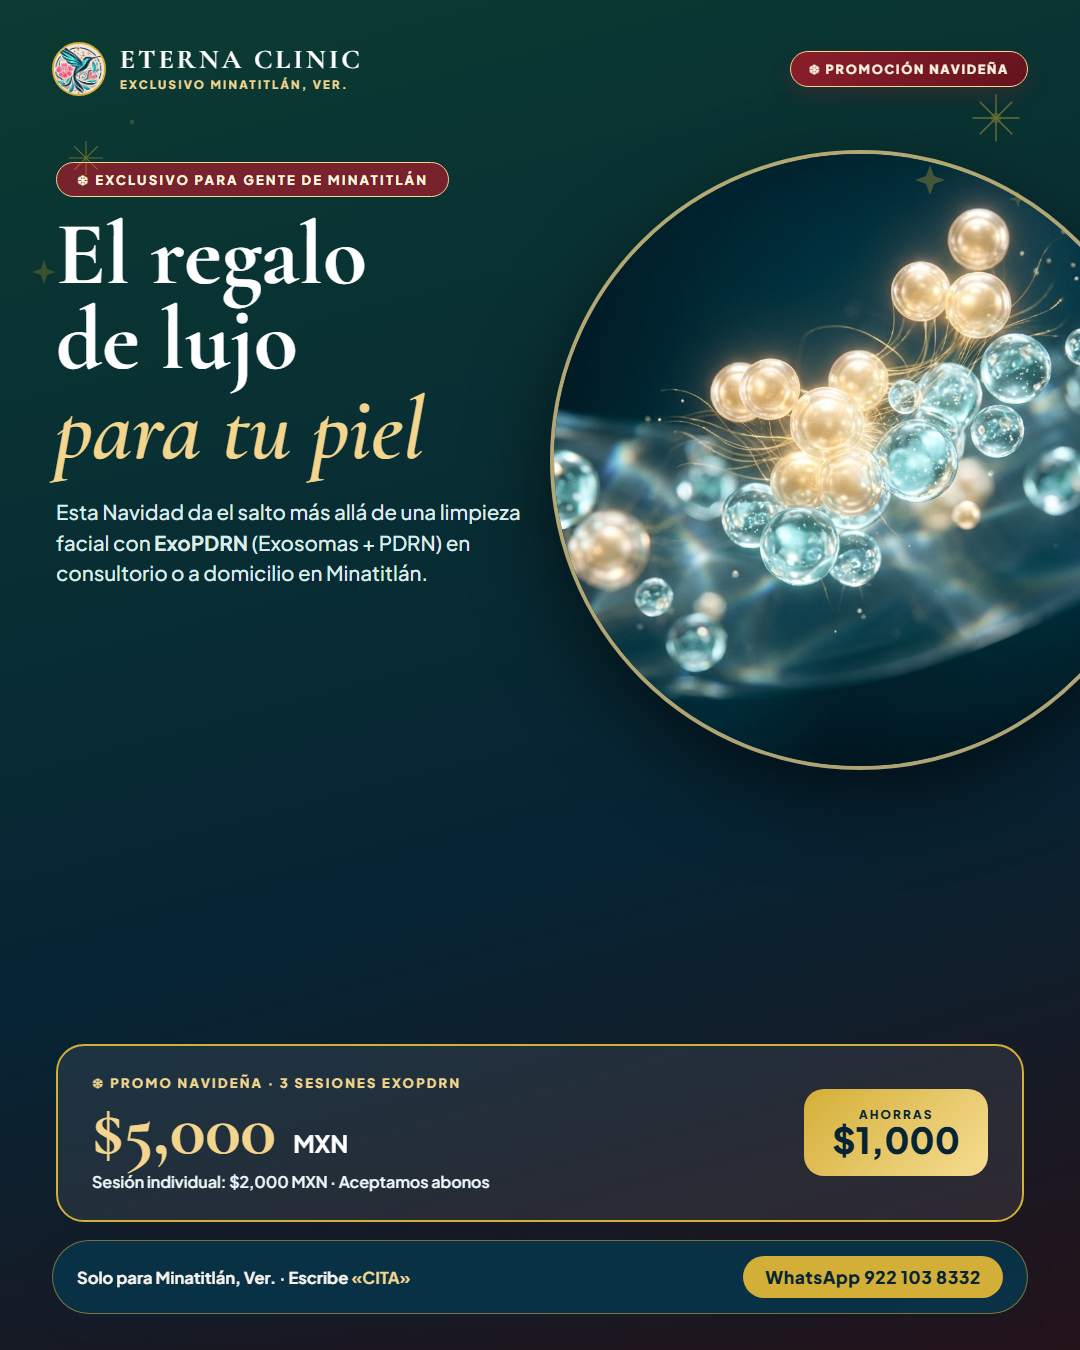
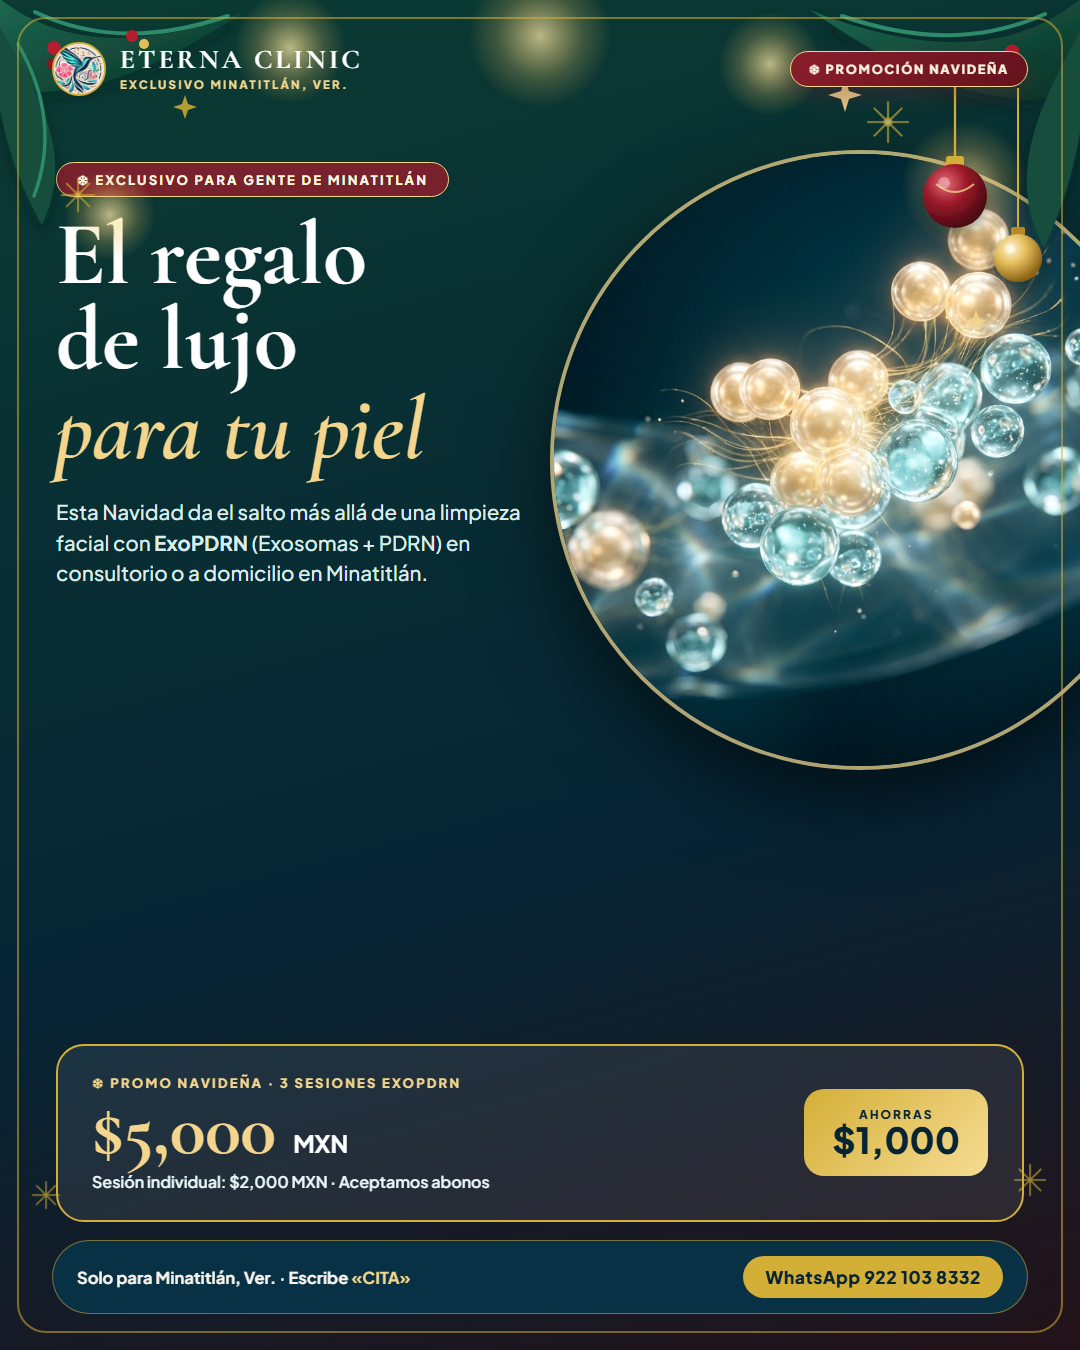
Sistema interactivo de favoritos/comentarios/descarga + diseno navideno de lujo real (guirnaldas, esferas, bokeh)

diff --git a/index.html b/index.html
@@ -547,11 +547,137 @@
     background: var(--navy-deep);
     color: rgba(255,255,255,0.78);
     text-align: center;
-    padding: 40px 20px;
+    padding: 40px 20px 110px;
     margin-top: 40px;
     font-size: 13.5px;
   }
   footer strong { color: var(--gold-light); }
+
+  /* SISTEMA DE APROBACION Y COMENTARIOS */
+  .review-controls {
+    display: flex;
+    gap: 8px;
+    margin-top: 4px;
+  }
+  .btn-fav {
+    flex: 1;
+    display: inline-flex;
+    align-items: center;
+    justify-content: center;
+    gap: 6px;
+    padding: 9px 12px;
+    border-radius: 12px;
+    font-size: 12.5px;
+    font-weight: 800;
+    cursor: pointer;
+    font-family: inherit;
+    background: #FFF9F0;
+    color: #8B1E2B;
+    border: 1.5px solid #E8D2A2;
+    transition: .2s;
+  }
+  .btn-fav.selected {
+    background: #8B1E2B;
+    color: #FDF4DF;
+    border-color: #8B1E2B;
+  }
+  .ad-card.is-fav {
+    border-color: #8B1E2B;
+    box-shadow: 0 12px 30px rgba(139,30,43,0.14);
+  }
+  .comment-box {
+    margin-top: 6px;
+  }
+  .comment-input {
+    width: 100%;
+    min-height: 54px;
+    resize: vertical;
+    border: 1.5px solid var(--border);
+    border-radius: 12px;
+    padding: 9px 12px;
+    font-family: inherit;
+    font-size: 12.8px;
+    color: var(--ink);
+    background: #FCFBF9;
+    transition: .2s;
+  }
+  .comment-input:focus {
+    outline: none;
+    border-color: var(--gold);
+    background: #FFFFFF;
+  }
+  .comment-saved {
+    font-size: 11px;
+    color: var(--ok);
+    font-weight: 700;
+    margin-top: 3px;
+    min-height: 15px;
+  }
+  .review-dock {
+    position: fixed;
+    left: 16px;
+    right: 16px;
+    bottom: 16px;
+    z-index: 150;
+    max-width: 1020px;
+    margin: 0 auto;
+    background: rgba(5, 34, 49, 0.96);
+    backdrop-filter: blur(14px);
+    border: 1.5px solid rgba(243, 213, 141, 0.65);
+    border-radius: 20px;
+    padding: 13px 20px;
+    color: #FFFFFF;
+    display: flex;
+    align-items: center;
+    justify-content: space-between;
+    gap: 14px;
+    flex-wrap: wrap;
+    box-shadow: 0 18px 46px rgba(4, 20, 30, 0.45);
+  }
+  .dock-info {
+    display: flex;
+    align-items: center;
+    gap: 12px;
+    font-size: 13.5px;
+    font-weight: 600;
+  }
+  .dock-badge {
+    background: #8B1E2B;
+    color: #FDF4DF;
+    border: 1px solid #F3D58D;
+    padding: 4px 12px;
+    border-radius: 999px;
+    font-size: 12px;
+    font-weight: 800;
+  }
+  .dock-actions {
+    display: flex;
+    gap: 8px;
+    flex-wrap: wrap;
+  }
+  .dock-btn {
+    border: none;
+    border-radius: 12px;
+    padding: 10px 16px;
+    font-family: inherit;
+    font-size: 13px;
+    font-weight: 800;
+    cursor: pointer;
+    transition: .2s;
+  }
+  .dock-wa {
+    background: linear-gradient(135deg, #25D366, #1DA851);
+    color: #FFFFFF;
+  }
+  .dock-copy {
+    background: rgba(255,255,255,0.12);
+    color: #FFFFFF;
+    border: 1px solid rgba(255,255,255,0.22);
+  }
+  .dock-txt {
+    background: #F3D58D;
+    color: #052231;
+  }
 
   @media (max-width: 960px) {
     .hero-in, .callout, .grid-2, .grid-3, .grid-4 { grid-template-columns: 1fr; }
@@ -838,6 +964,18 @@
   <p><strong>ETERNA CLINIC</strong> · Medicina Estética y Regenerativa No Invasiva · Col. Díaz Ordaz, Minatitlán, Veracruz</p>
   <p style="margin-top:6px;">WhatsApp de citas: <strong>+52 1 922 103 8332</strong> · Propuesta estratégica y producción creativa lista para campaña.</p>
 </footer>
+
+<div class="review-dock" id="review-dock">
+  <div class="dock-info">
+    <span class="dock-badge" id="dock-count">♥ 0 favoritos · 💬 0 comentarios</span>
+    <span>Marca tus favoritos o escribe ajustes en cada imagen/video y envíalos en 1 clic.</span>
+  </div>
+  <div class="dock-actions">
+    <button class="dock-btn dock-copy" onclick="copyReview(this)">📋 Copiar resumen</button>
+    <button class="dock-btn dock-txt" onclick="downloadReviewTxt()">⬇ Guardar .TXT</button>
+    <button class="dock-btn dock-wa" onclick="sendReviewWhatsApp()">📲 Enviar por WhatsApp</button>
+  </div>
+</div>
 
 <div class="lightbox" id="lightbox" onclick="closeLightbox()">
   <button class="lightbox-close" onclick="closeLightbox()">×</button>
@@ -1133,8 +1271,108 @@ const VIDEOS = [
   }
 ];
 
+const STORAGE_KEY = "eterna_clinic_review_v1";
+function loadReview() {
+  try { return JSON.parse(localStorage.getItem(STORAGE_KEY) || '{"favs":{},"comments":{}}'); }
+  catch { return { favs: {}, comments: {} }; }
+}
+function saveReview(state) {
+  localStorage.setItem(STORAGE_KEY, JSON.stringify(state));
+  updateDock();
+}
+function toggleFav(id) {
+  const st = loadReview();
+  if (st.favs[id]) delete st.favs[id]; else st.favs[id] = true;
+  saveReview(st);
+  const btn = document.getElementById("fav-" + id);
+  const card = document.getElementById("card-" + id);
+  if (btn) {
+    const on = !!st.favs[id];
+    btn.classList.toggle("selected", on);
+    btn.textContent = on ? "♥ Aprobado / Favorito" : "♡ Me gusta";
+  }
+  if (card) card.classList.toggle("is-fav", !!st.favs[id]);
+}
+function saveComment(id, val) {
+  const st = loadReview();
+  const clean = val.trim();
+  if (clean) st.comments[id] = clean; else delete st.comments[id];
+  saveReview(st);
+  const el = document.getElementById("saved-" + id);
+  if (el) el.textContent = clean ? "✓ Comentario guardado" : "";
+}
+function updateDock() {
+  const st = loadReview();
+  const fCount = Object.keys(st.favs).length;
+  const cCount = Object.keys(st.comments).length;
+  const badge = document.getElementById("dock-count");
+  if (badge) badge.textContent = `♥ ${fCount} favoritos · 💬 ${cCount} comentarios`;
+}
+function buildReviewSummary() {
+  const st = loadReview();
+  const favIds = Object.keys(st.favs);
+  const comIds = Object.keys(st.comments);
+  const allItems = [...IMAGENES, ...VIDEOS];
+  const getTitle = id => (allItems.find(x => x.id === id) || {}).titulo || "";
+  let lines = ["*REVISIÓN PROPUESTA NAVIDEÑA — ETERNA CLINIC*", ""];
+  if (favIds.length) {
+    lines.push(`*♥ APROBADOS / FAVORITOS (${favIds.length}):*`);
+    favIds.forEach(id => lines.push(`• ${id} — ${getTitle(id)}`));
+    lines.push("");
+  }
+  if (comIds.length) {
+    lines.push(`*💬 COMENTARIOS Y AJUSTES (${comIds.length}):*`);
+    comIds.forEach(id => lines.push(`• ${id}: ${st.comments[id]}`));
+    lines.push("");
+  }
+  if (!favIds.length && !comIds.length) {
+    lines.push("Aún no se marcaron favoritos ni comentarios específicos.");
+  }
+  return lines.join("\n");
+}
+function copyReview(btn) {
+  navigator.clipboard.writeText(buildReviewSummary()).then(() => {
+    const old = btn.textContent;
+    btn.textContent = "✓ ¡Resumen copiado!";
+    setTimeout(() => btn.textContent = old, 1800);
+  });
+}
+function downloadReviewTxt() {
+  const blob = new Blob([buildReviewSummary()], { type: "text/plain;charset=utf-8" });
+  const a = document.createElement("a");
+  a.href = URL.createObjectURL(blob);
+  a.download = "revision-eterna-clinic.txt";
+  a.click();
+  setTimeout(() => URL.revokeObjectURL(a.href), 1000);
+}
+function sendReviewWhatsApp() {
+  const txt = encodeURIComponent(buildReviewSummary());
+  window.open("https://wa.me/?text=" + txt, "_blank");
+}
+async function downloadAsset(url, filename, btn) {
+  const old = btn.textContent;
+  btn.textContent = "Descargando...";
+  try {
+    const res = await fetch(url);
+    const blob = await res.blob();
+    const a = document.createElement("a");
+    a.href = URL.createObjectURL(blob);
+    a.download = filename;
+    document.body.appendChild(a);
+    a.click();
+    a.remove();
+    setTimeout(() => URL.revokeObjectURL(a.href), 1500);
+    btn.textContent = "✓ Descargado";
+  } catch {
+    window.open(url, "_blank");
+    btn.textContent = old;
+  }
+  setTimeout(() => btn.textContent = old, 1800);
+}
+
 function renderImages(filter = "editorial") {
   const grid = document.getElementById("img-grid");
+  const st = loadReview();
   const list = filter === "all"
     ? IMAGENES
     : filter === "editorial"
@@ -1142,8 +1380,11 @@ function renderImages(filter = "editorial") {
       : filter === "clasica"
         ? IMAGENES.filter(x => x.ed !== "editorial")
         : IMAGENES.filter(x => x.cat === filter);
-  grid.innerHTML = list.map(ad => `
-    <article class="ad-card">
+  grid.innerHTML = list.map(ad => {
+    const isFav = !!st.favs[ad.id];
+    const com = st.comments[ad.id] || "";
+    return `
+    <article class="ad-card ${isFav ? 'is-fav' : ''}" id="card-${ad.id}">
       <div class="ad-media" onclick="openLightbox('${ad.file}')">
         <img src="${ad.file}" alt="${ad.titulo}" loading="lazy">
       </div>
@@ -1158,27 +1399,38 @@ function renderImages(filter = "editorial") {
           <strong>Copy listo para publicar</strong>
           ${ad.copy}
         </div>
+        <div class="review-controls">
+          <button id="fav-${ad.id}" class="btn-fav ${isFav ? 'selected' : ''}" onclick="toggleFav('${ad.id}')">${isFav ? '♥ Aprobado / Favorito' : '♡ Me gusta'}</button>
+        </div>
+        <div class="comment-box">
+          <textarea class="comment-input" placeholder="💬 Escribe aquí un comentario o ajuste para ${ad.id}..." oninput="saveComment('${ad.id}', this.value)">${com.replace(/</g,'&lt;')}</textarea>
+          <div class="comment-saved" id="saved-${ad.id}">${com ? '✓ Comentario guardado' : ''}</div>
+        </div>
         <div class="ad-actions">
           <button class="btn btn-ghost" onclick="copyText(this, \`${ad.copy.replace(/`/g, '')}\`)">Copiar copy</button>
-          <a class="btn btn-primary" href="${ad.file}" download="${ad.id}.png">Descargar PNG</a>
+          <button class="btn btn-primary" onclick="downloadAsset('${ad.file}', '${ad.id}.png', this)">⬇ Descargar PNG</button>
         </div>
       </div>
-    </article>
-  `).join("");
+    </article>`;
+  }).join("");
 }
 
 function renderVideos(filter = "all") {
   const grid = document.getElementById("vid-grid");
+  const st = loadReview();
   const list = filter === "all" ? VIDEOS : VIDEOS.filter(x => x.cat === filter);
-  grid.innerHTML = list.map(v => `
-    <article class="ad-card">
+  grid.innerHTML = list.map(v => {
+    const isFav = !!st.favs[v.id];
+    const com = st.comments[v.id] || "";
+    return `
+    <article class="ad-card ${isFav ? 'is-fav' : ''}" id="card-${v.id}">
       <div class="ad-video-wrap">
         <video controls playsinline preload="metadata" src="${v.file}"></video>
       </div>
       <div class="ad-body">
         <div class="ad-meta">
           <span class="ad-chip ${v.cat === 'kr' ? 'chip-kr' : 'chip-exo'}">${v.servicio}</span>
-          <span class="ad-id">${v.id} · 9:16 con voz</span>
+          <span class="ad-id">${v.id} · 1080×1920 con voz</span>
         </div>
         <h3 class="ad-title">${v.titulo}</h3>
         <p class="ad-angle"><strong>Enfoque:</strong> ${v.angulo}</p>
@@ -1186,12 +1438,19 @@ function renderVideos(filter = "all") {
           <strong>Guion de locución (Voz MX)</strong>
           ${v.guion}
         </div>
+        <div class="review-controls">
+          <button id="fav-${v.id}" class="btn-fav ${isFav ? 'selected' : ''}" onclick="toggleFav('${v.id}')">${isFav ? '♥ Aprobado / Favorito' : '♡ Me gusta'}</button>
+        </div>
+        <div class="comment-box">
+          <textarea class="comment-input" placeholder="💬 Escribe aquí un comentario o ajuste para ${v.id}..." oninput="saveComment('${v.id}', this.value)">${com.replace(/</g,'&lt;')}</textarea>
+          <div class="comment-saved" id="saved-${v.id}">${com ? '✓ Comentario guardado' : ''}</div>
+        </div>
         <div class="ad-actions">
-          <a class="btn btn-primary" href="${v.file}" download="${v.id}.mp4">Descargar MP4</a>
+          <button class="btn btn-primary" onclick="downloadAsset('${v.file}', '${v.id}.mp4', this)">⬇ Descargar MP4</button>
         </div>
       </div>
-    </article>
-  `).join("");
+    </article>`;
+  }).join("");
 }
 
 function setupTabs(containerId, renderFn) {
@@ -1222,6 +1481,7 @@ function copyText(btn, text) {
 
 renderImages();
 renderVideos();
+updateDock();
 setupTabs("img-tabs", renderImages);
 setupTabs("vid-tabs", renderVideos);
 </script>
